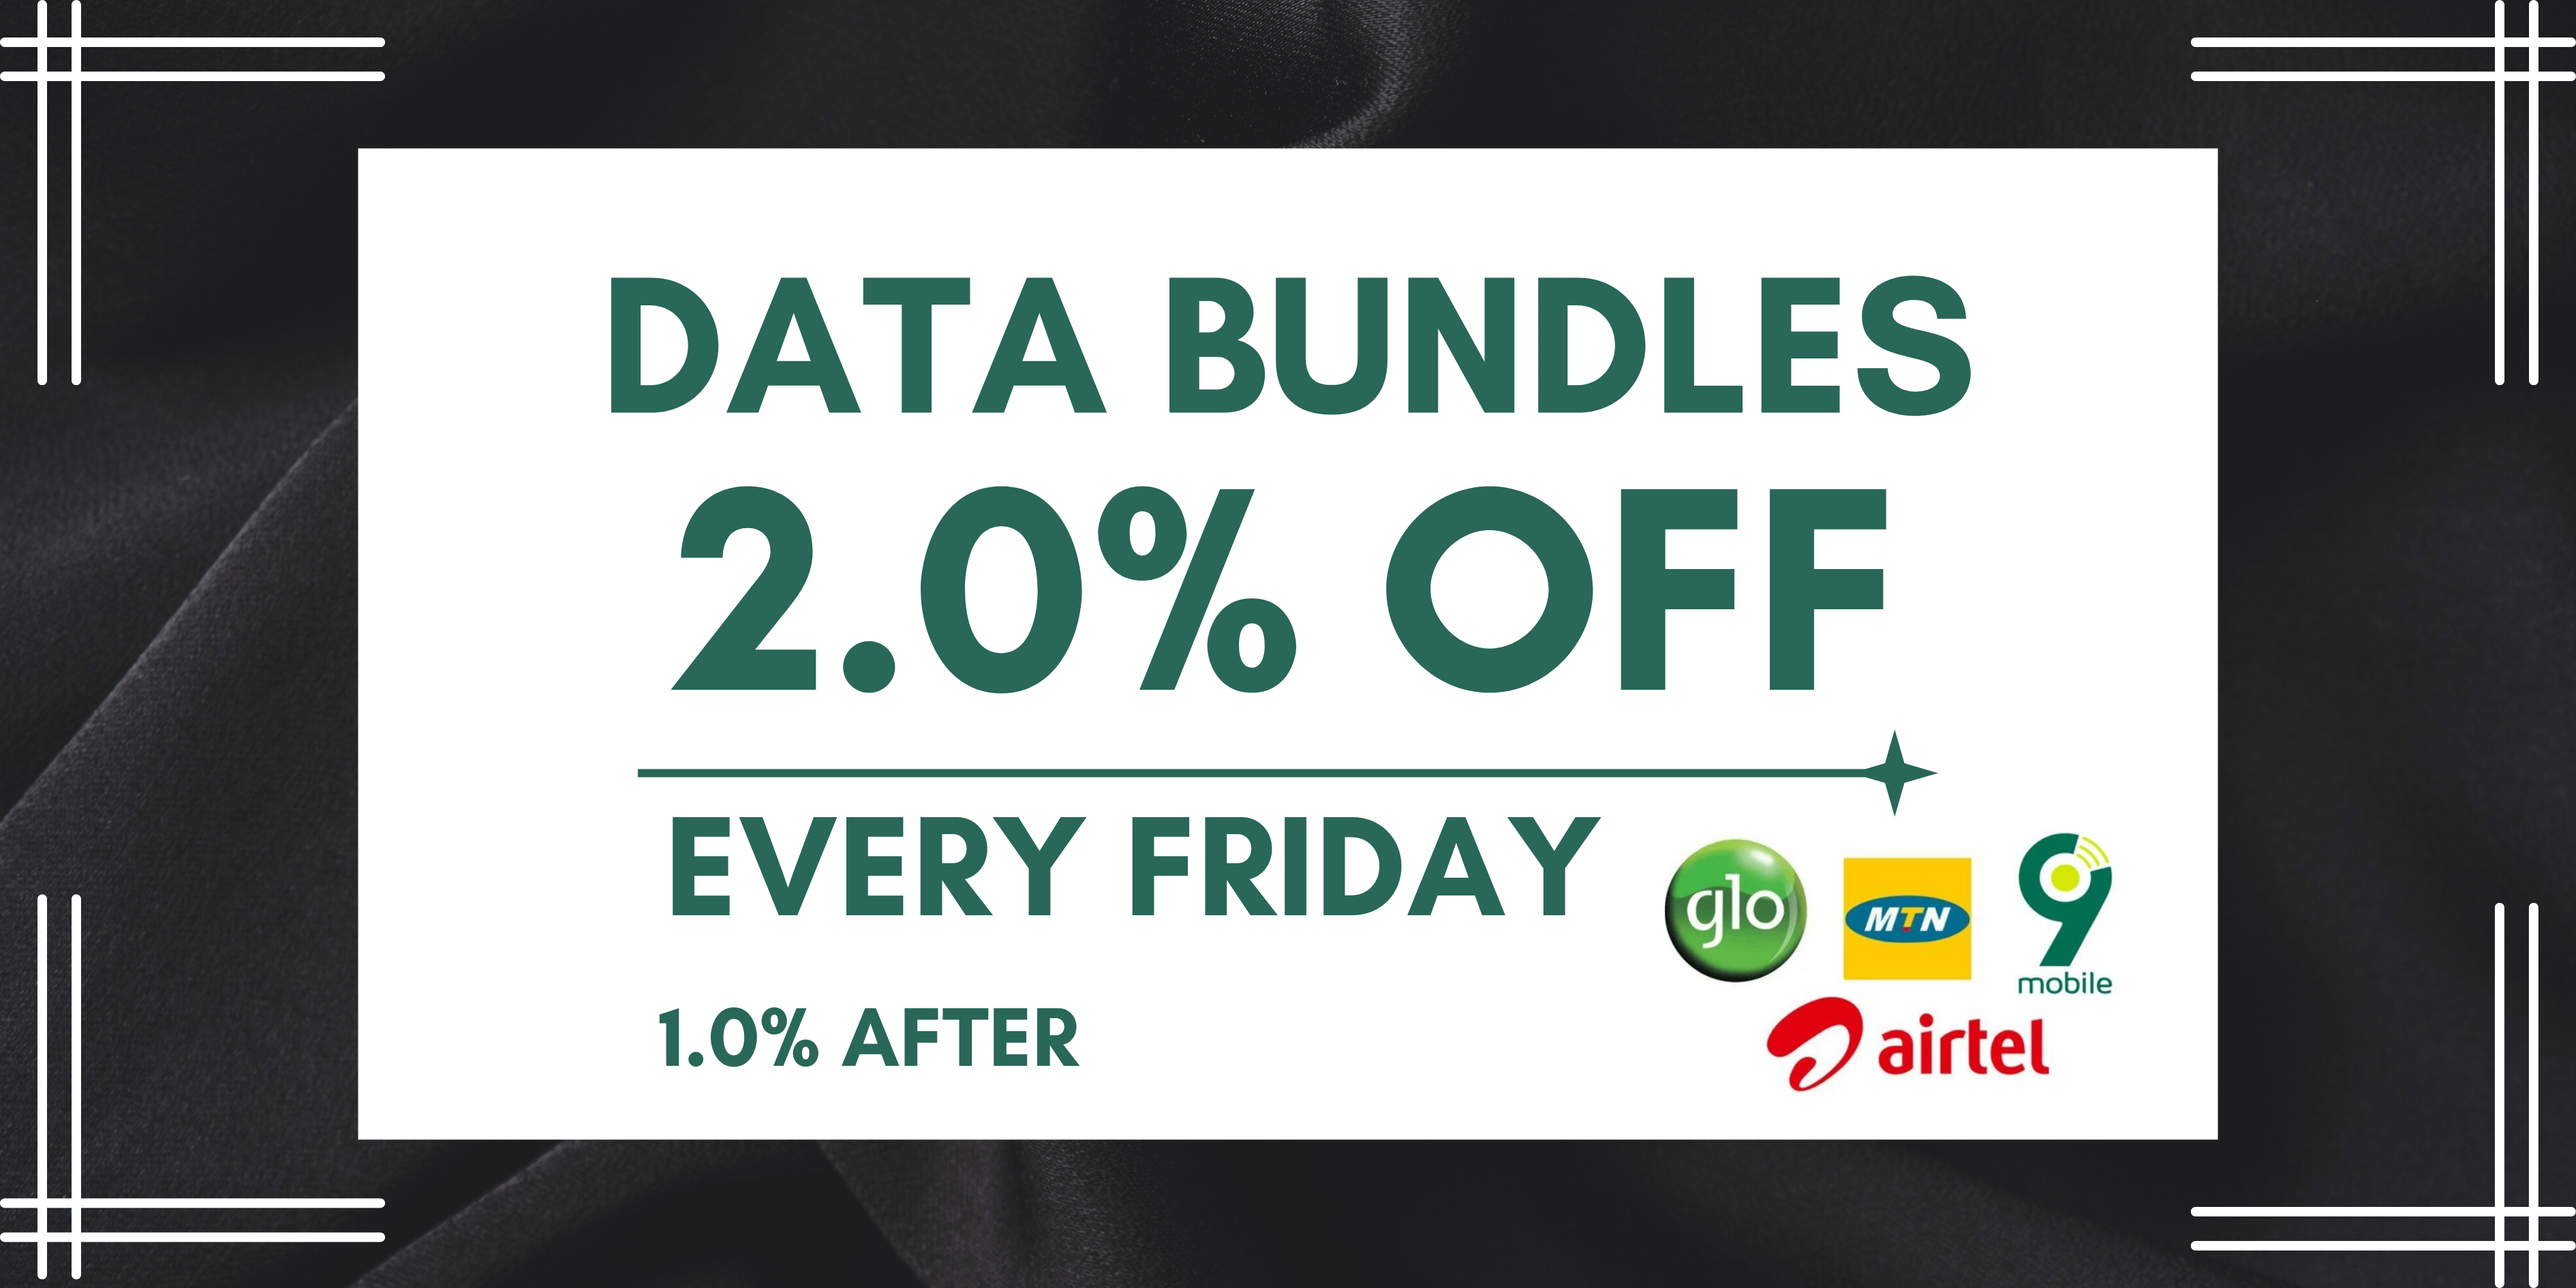
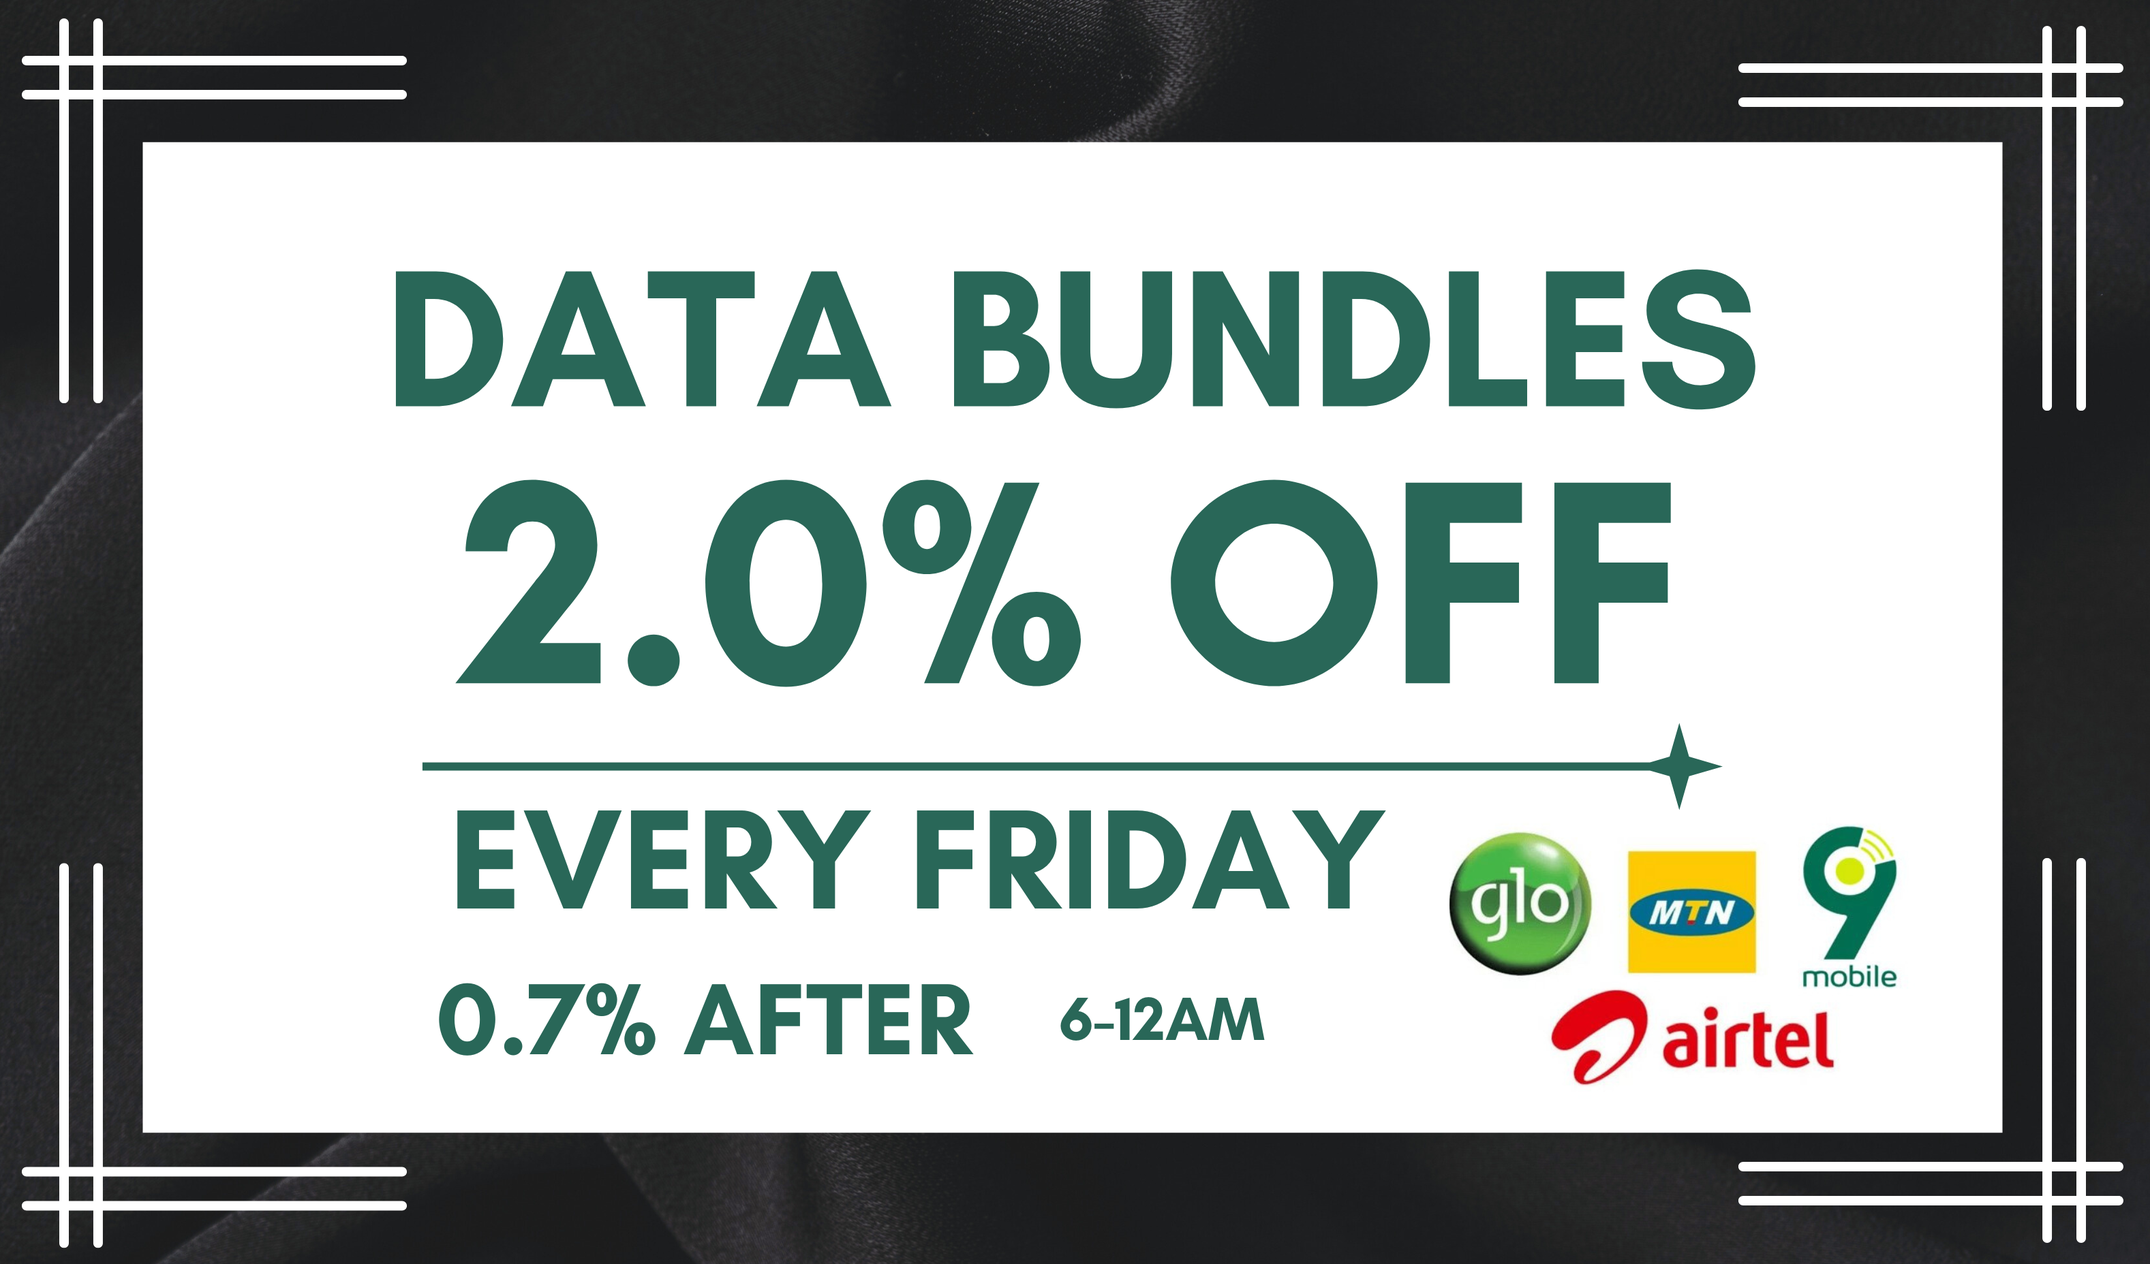
d

diff --git a/app/(protectedPages)/(services)/data/page.js b/app/(protectedPages)/(services)/data/page.js
@@ -9,6 +9,7 @@ import { billzpaddi } from "@/lib/client";
 import Link from "next/link";
 import { useGlobalContextData } from "@/context/GlobalContextData";
 import CountUpTimer from "@/components/count/countUpTimer";
+import { set } from "zod";
 
 const CustomDropdown = ({
   options,
@@ -103,7 +104,9 @@ const PurchaseDialog = ({
   phoneNumber,
   onSuccess,
   hasDiscount,
+  hasFridayDiscount,
   setHasDiscount,
+  setHasFridayDiscount,
 }) => {
   const { user, fetchData } = useGlobalContext();
   const {
@@ -128,13 +131,13 @@ const PurchaseDialog = ({
     getUniqueRequestId();
   }, []);
 
-  const applyDiscount = !hasDiscount;
+  const applyDiscount = !hasDiscount || hasFridayDiscount;
 
   const discountRates = {
-    "mtn-data": 0.01, // 0.5%
-    "glo-data": 0.01, // 1%
-    "airtel-data": 0.01, // 0.7%
-    "etisalat-data": 0.01, // 1%
+    "mtn-data": 0.007, // 0.5%
+    "glo-data": 0.007, // 1%
+    "airtel-data": 0.007, // 0.7%
+    "etisalat-data": 0.007, // 1%
   };
 
   const totalAmount = selectedPlan
@@ -146,8 +149,8 @@ const PurchaseDialog = ({
           return Math.round(amount * 0.98);
         } else {
           // Use selectedISP rate or fallback to 1%
-          const rate = discountRates[selectedISP?.serviceID] || 0.01;
-          const discount = Math.min(amount * rate, 250);
+          const rate = discountRates[selectedISP?.serviceID] || 0.007;
+          const discount = Math.min(amount * rate, 300);
           return Math.round(amount - discount);
         }
       })()
@@ -230,7 +233,7 @@ const PurchaseDialog = ({
 
       const data = await res.json();
 
-      if (data.code === "000" && !user?.has_claimed_data_discount) {
+      if (data.code === "000" && !hasDiscount) {
         // update discount
         await billzpaddi
           .from("users")
@@ -238,6 +241,16 @@ const PurchaseDialog = ({
           .eq("user_id", user?.user_id);
 
         setHasDiscount(true);
+      }
+
+      if (data.code === "000" && hasFridayDiscount) {
+        // update discount
+        await billzpaddi
+          .from("users")
+          .update({ friday_data_discount: true })
+          .eq("user_id", user?.user_id);
+
+        setHasFridayDiscount(true);
       }
 
       // 4. Update transaction based on response
@@ -416,7 +429,8 @@ export default function Page() {
   const [activeTab, setActiveTab] = useState("Daily");
   const [isDropdownOpen, setIsDropdownOpen] = useState(false);
   const [selectedPlan, setSelectedPlan] = useState(null);
-  const [hasDiscount, setHasDiscount] = useState(true);
+  const [hasDiscount, setHasDiscount] = useState(null);
+  const [hasFridayDiscount, setHasFridayDiscount] = useState(null);
   const [showDialog, setShowDialog] = useState(false);
   const [phone, setPhone] = useState("");
   const dropdownRef = useRef(null);
@@ -463,7 +477,7 @@ export default function Page() {
 
       const { data, error } = await billzpaddi
         .from("users")
-        .select("has_claimed_data_discount")
+        .select("has_claimed_data_discount, friday_data_discount")
         .eq("user_id", user?.user_id)
         .single();
 
@@ -471,13 +485,14 @@ export default function Page() {
         console.error("Error fetching discount status:", error);
       } else {
         setHasDiscount(data?.has_claimed_data_discount);
+        setHasFridayDiscount(data?.friday_data_discount);
       }
     };
 
     fetchDiscount();
   }, [user]);
 
-  const applyDiscount = !hasDiscount;
+  const applyDiscount = !hasDiscount || hasFridayDiscount;
 
   const addGain = (baseAmount) => {
     const amount = Number(baseAmount);
@@ -488,17 +503,17 @@ export default function Page() {
     } else {
       // Define discount rates per ISP
       const discountRates = {
-        "mtn-data": 0.01, // 1%
-        "glo-data": 0.01, // 1%
-        "airtel-data": 0.01, // 1%
-        "etisalat-data": 0.01, // 1%
+        "mtn-data": 0.007, // 1%
+        "glo-data": 0.007, // 1%
+        "airtel-data": 0.007, // 1%
+        "etisalat-data": 0.007, // 1%
       };
 
       // Use 1% as default if not found
-      const rate = discountRates[selectedISP?.serviceID] || 0.01;
+      const rate = discountRates[selectedISP?.serviceID] || 0.007;
 
       // Apply discount with ₦150 cap
-      const discount = Math.min(amount * rate, 250);
+      const discount = Math.min(amount * rate, 300);
       return Math.round(amount - discount);
     }
   };
@@ -698,10 +713,10 @@ export default function Page() {
 
   // Define discount rates per ISP
   const discountRates = {
-    "mtn-data": 0.01, // 0.5%
-    "glo-data": 0.01, // 1%
-    "airtel-data": 0.01, // 0.7%
-    "etisalat-data": 0.01, // 1%
+    "mtn-data": 0.007, // 0.5%
+    "glo-data": 0.007, // 1%
+    "airtel-data": 0.007, // 0.7%
+    "etisalat-data": 0.007, // 1%
   };
 
   // Use 1% as default if not found
@@ -791,7 +806,7 @@ export default function Page() {
                     ₦{addGain(plan?.variation_amount).toLocaleString()}
                   </p>
                   <p className="mt-1">
-                    {!hasDiscount ? (
+                    {!hasDiscount || hasFridayDiscount ? (
                       <span className="inline-flex items-center bg-green-50 text-green-700 text-xs font-medium px-2.5 py-0.5 rounded-full">
                         <span className="w-1.5 h-1.5 bg-green-500 rounded-full mr-1.5"></span>
                         2% discount
@@ -800,7 +815,7 @@ export default function Page() {
                       <span className="inline-flex items-center bg-blue-50 text-blue-700 text-xs font-medium px-2.5 py-0.5 rounded-full">
                         <span className="w-1.5 h-1.5 bg-blue-500 rounded-full mr-1.5"></span>
                         {(rate * 100).toFixed(1)}% discount
-                        {Number(plan?.variation_amount || 0) * rate > 250 && (
+                        {Number(plan?.variation_amount || 0) * rate > 300 && (
                           <span className="relative ml-1.5" ref={tooltipRef}>
                             <span
                               onClick={(e) =>
@@ -848,6 +863,8 @@ export default function Page() {
         selectedPlan={selectedPlan}
         selectedISP={selectedISP}
         hasDiscount={hasDiscount}
+        hasFridayDiscount={hasFridayDiscount}
+        setHasFridayDiscount={setHasFridayDiscount}
         setHasDiscount={setHasDiscount}
         phoneNumber={phone || user?.phone}
         onSuccess={() => {

diff --git a/app/(protectedPages)/portal/users/page.js b/app/(protectedPages)/portal/users/page.js
@@ -18,6 +18,7 @@ export default function Page() {
   const [editingUser, setEditingUser] = useState(null);
   const [currentPage, setCurrentPage] = useState(1);
   const [itemsPerPage] = useState(10);
+  const [updatingDiscount, setUpdatingDiscount] = useState(false);
 
   const router = useRouter();
 
@@ -94,6 +95,39 @@ export default function Page() {
     } catch (err) {
       toast.error("Error updating user status");
       console.error("Error updating user status:", err);
+    }
+  };
+
+  // toggle friday data discount for all users
+  const toggleFridayDataDiscount = async () => {
+    const currentDiscountStatus = users[0]?.friday_data_discount || false;
+    const confirm = window.confirm(
+      `Are you sure you want to ${
+        currentDiscountStatus ? "disable" : "enable"
+      } Friday data discount for ALL users?`
+    );
+    if (!confirm) return;
+
+    setUpdatingDiscount(true);
+    try {
+      const { error } = await billzpaddi
+        .from("users")
+        .update({ friday_data_discount: !currentDiscountStatus })
+        .neq("role", "admin");
+
+      if (error) throw error;
+
+      fetchUsers();
+      toast.success(
+        `Friday data discount ${
+          currentDiscountStatus ? "disabled" : "enabled"
+        } for all users!`
+      );
+    } catch (err) {
+      toast.error("Error updating discount status");
+      console.error("Error updating discount status:", err);
+    } finally {
+      setUpdatingDiscount(false);
     }
   };
 
@@ -189,8 +223,23 @@ export default function Page() {
           <h1 className="text-2xl md:text-3xl">All Users</h1>
           <div className="flex flex-wrap ml-auto items-center gap-4">
             <button
+              onClick={toggleFridayDataDiscount}
+              className={`${
+                users[0]?.friday_data_discount
+                  ? "bg-red-600 hover:bg-red-700"
+                  : "bg-green-600 hover:bg-green-700"
+              } px-3 py-2 rounded flex items-center text-sm cursor-pointer gap-2`}
+              disabled={updatingDiscount || loading}
+            >
+              {updatingDiscount
+                ? "Updating..."
+                : users[0]?.friday_data_discount
+                ? "Disable Friday Discount"
+                : "Enable Friday Discount"}
+            </button>
+            <button
               onClick={fetchUsers}
-              className="bg-gray-700 cursor-pointer  hover:bg-gray-600 px-3 py-2 rounded flex items-center gap-2"
+              className=" cursor-pointer bg-gray-600 px-3 py-2 rounded flex items-center gap-2"
               disabled={loading}
             >
               {loading ? "Refreshing..." : "Refresh"}
@@ -263,6 +312,7 @@ export default function Page() {
                         <th className="p-3 border">Role</th>
                         <th className="p-3 border">Balance</th>
                         <th className="p-3 border">Status</th>
+                        <th className="p-3 border">Friday Discount</th>
                         <th className="p-3 border text-center rounded-r-md">
                           Actions
                         </th>
@@ -289,6 +339,17 @@ export default function Page() {
                               {u.status ? "Active" : "Suspended"}
                             </span>
                           </td>
+                          <td className="p-3 border">
+                            <span
+                              className={`px-3 py-1 rounded-full ${
+                                u.friday_data_discount
+                                  ? "bg-green-100 text-green-700"
+                                  : "bg-red-100 text-red-700"
+                              }`}
+                            >
+                              {u.friday_data_discount ? "Enabled" : "Disabled"}
+                            </span>
+                          </td>
                           <td className="p-3 border text-center whitespace-nowrap">
                             <Link
                               href={`/portal/users/${u.user_id}`}
@@ -309,7 +370,7 @@ export default function Page() {
                       ))}
                       {filteredUsers.length === 0 && !loading && (
                         <tr>
-                          <td colSpan="7" className="text-center p-5">
+                          <td colSpan="8" className="text-center p-5">
                             No users found.
                           </td>
                         </tr>

diff --git a/components/carousel/dashboardCarousel.js b/components/carousel/dashboardCarousel.js
@@ -39,7 +39,7 @@ export default function BillzPaddiCarousel() {
 
   return (
     <div
-      className="relative overflow-hidden w-full h-28 bg-transparent"
+      className="relative overflow-hidden w-full bg-transparent"
       onMouseEnter={stopInterval}
       onMouseLeave={startInterval}
     >
@@ -57,7 +57,7 @@ export default function BillzPaddiCarousel() {
                   alt={banner.alt}
                   width={800}
                   height={800}
-                  className="w-full h-full object-fill cursor-pointer"
+                  className="w-full h-32 object-fill cursor-pointer"
                 />
               </span>
             </Link>
